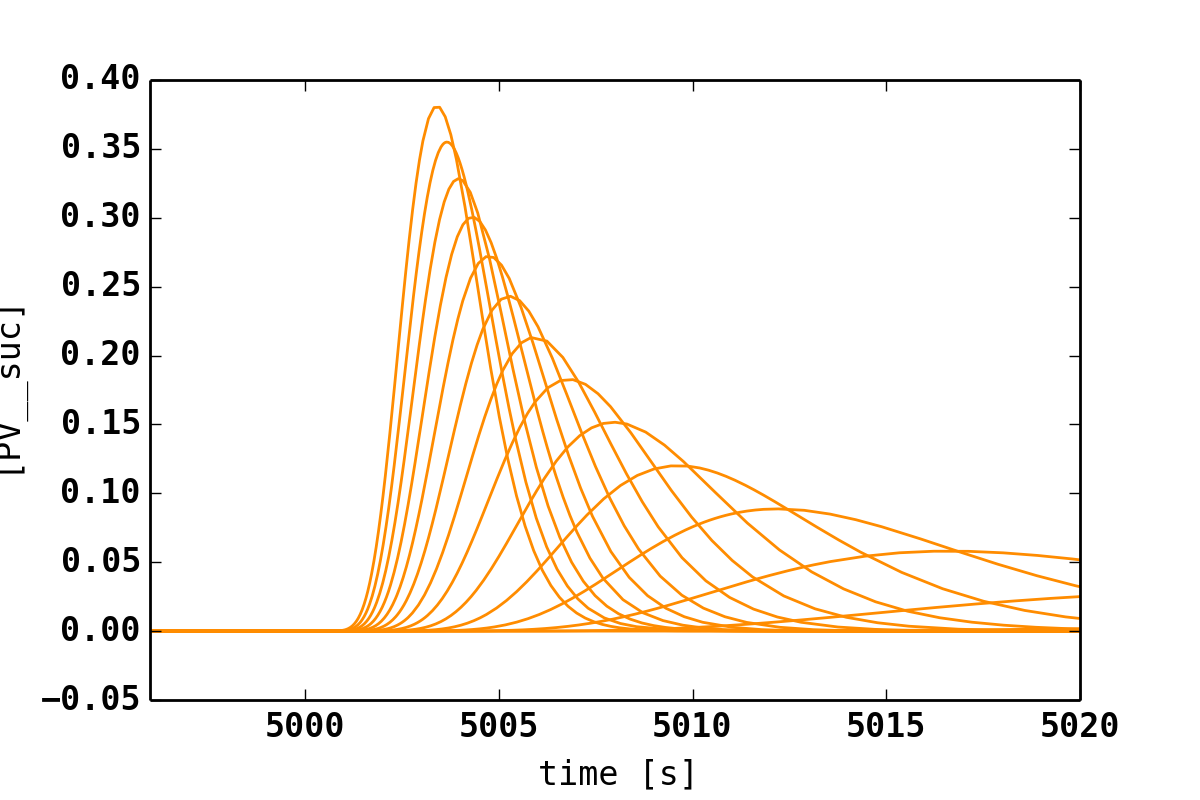
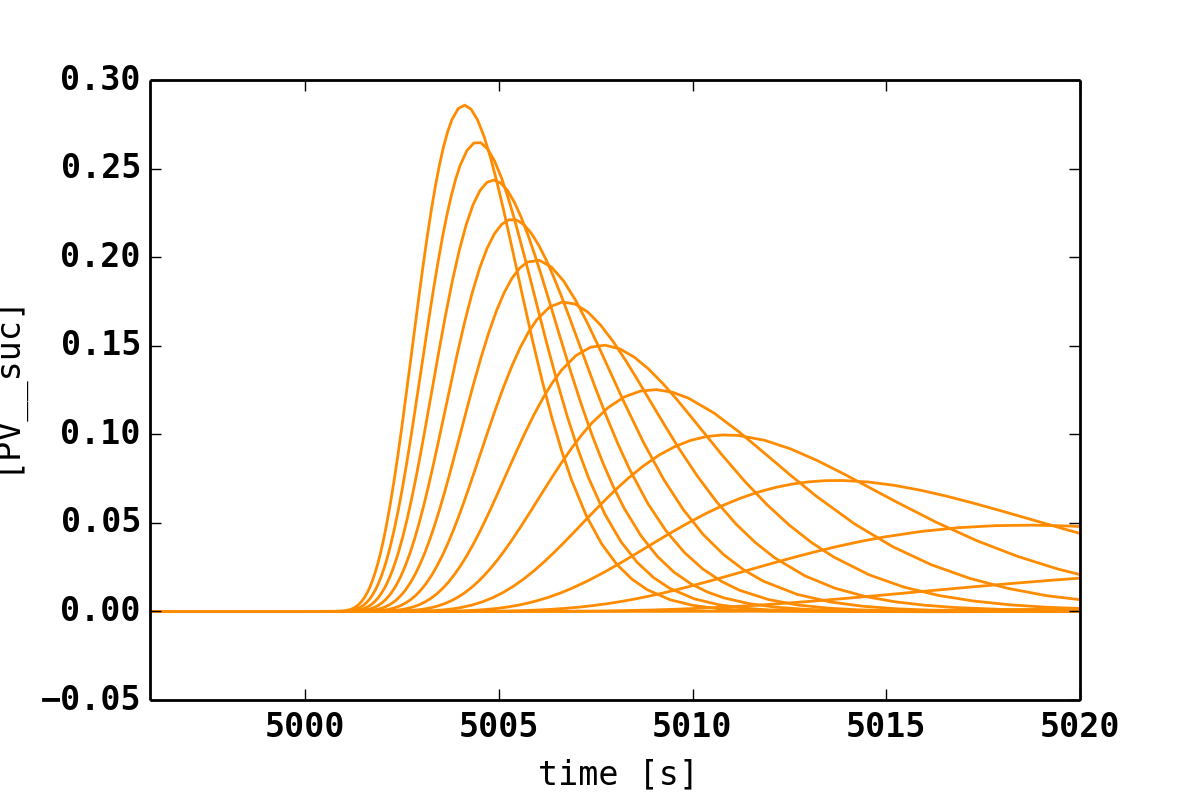
Better parameter set found

diff --git a/python/simulator/simulator/roadrunner_tools/galactose_dilution.py b/python/simulator/simulator/roadrunner_tools/galactose_dilution.py
@@ -24,13 +24,13 @@ import dilution_plots as dp
 #########################################################################    
 # Load model
 #########################################################################    
-VERSION = 92
+VERSION = 93
 NC = 20
 SBML_DIR = '/home/mkoenig/multiscale-galactose-results/tmp_sbml'
 T_PEAK = 5000
 
-# sbml_file = SBML_DIR + '/' + 'Galactose_v{}_Nc20_dilution.xml'.format(VERSION)
-sbml_file = SBML_DIR + '/' + 'Galactose_v{}_Nc{}_dilution_gauss.xml'.format(VERSION, NC)
+sbml_file = SBML_DIR + '/' + 'Galactose_v{}_Nc20_dilution.xml'.format(VERSION)
+# sbml_file = SBML_DIR + '/' + 'Galactose_v{}_Nc{}_dilution_gauss.xml'.format(VERSION, NC)
 r = rt.load_model(sbml_file)
 
 #########################################################################    
@@ -58,7 +58,8 @@ r.selections = sel
 # set the boundary concentrations
 # PP__gal = (0.28, 5, 12.5, 17.5) # [mM]
 p_list = [
-   { "[PP__gal]" : 0.28, "flow_sin" : 1.5*0.5*270E-6, 't_duration':0.5, 'y_dis': 1.2E-6},
+   { "[PP__gal]" : 0.28, "flow_sin" : 1.5*0.5*270E-6, 't_duration':0.5, 'y_dis': 1.2E-6, 
+    "peak_area": 1.0},
 ]
 
 inits = {}
@@ -87,6 +88,8 @@ for sid in ['[PV__{}]'.format(item) for item in compounds]:
 import roadrunner_plots as rp
 # mean curve
 dp.dilution_plot_pppv(s_list, r.selections)
+# dp.dilution_plot_pppv(s_list, r.selections, ylim=[0,0.005])
+
 
 # mean curve with data
 exp_file = '/home/mkoenig/multiscale-galactose/results/dilution/Goresky_processed.csv'
@@ -104,6 +107,7 @@ dp.dilution_plot_by_name(s_list, r.selections, name='udpgalM')
 dp.dilution_plot_by_name(s_list, r.selections, name='udpglcM')
 
 dp.dilution_plot_by_name(s_list, r.selections, name='galM', xlim=[T_PEAK-10, T_PEAK+20])
+dp.dilution_plot_by_name(s_list, r.selections, name='galM', xlim=[T_PEAK-10, T_PEAK+20], comp_type="D")
 dp.dilution_plot_by_name(s_list, r.selections, name='galM', xlim=[0, 20])
 dp.dilution_plot_by_name(s_list, r.selections, name='gal1p')
 dp.dilution_plot_by_name(s_list, r.selections, name='galtol')

diff --git a/python/simulator/simulator/roadrunner_tools/galactose_dilution_flux.py b/python/simulator/simulator/roadrunner_tools/galactose_dilution_flux.py
@@ -51,19 +51,19 @@ p_flux = gf.flux_probability(flux)
 # Set parameters and integrate
 #########################################################################  
 gal_p_list = []
-for gal in [0.28]:
-# for gal in [0.28, 12.5, 17.5]:
+# for gal in [0.28]:
+for gal in [0.28, 12.5, 17.5]:
     p_list = []
     for f in flux:
         d = { 
               # 't_duration':0.5,
               "[PP__gal]" : gal, 
               "flow_sin" : f*1E-6 * 0.5,    
-              "y_dis" : 2.5E-6,
-              "y_cell" : 1.4*6.19E-6,
-              "scale_f" : 1.0,           
-              "H2OT_f": 17.0,
-              "GLUT2_f" : 6, 
+              "y_dis" : 2.7E-6,
+              "y_cell" : 1.2*6.19E-6,
+              "scale_f" : 0.85,           
+              "H2OT_f": 10.0,
+              "GLUT2_f" : 3.7, 
               # "y_peak" : 0.5,
               # "GALK_PA" :  0.02,
               }
@@ -121,8 +121,8 @@ rp.average_plots(timepoints, av_mats, xlim=tlim, show=show_plots)
 # rp.plot_data_with_sim(exp_data, timepoints, av_mats, scale=4.0*15.16943, time_shift=1.5)
 # rp.plot_gal_data_with_sim(exp_data, timepoints, av_mats, scale=4.0*15.16943, time_shift=1.5)        
 
-rp.plot_data_with_sim(exp_data, timepoints, av_mats, scale=3.8*15.16943, time_shift=1.0)
-rp.plot_gal_data_with_sim(exp_data, timepoints, av_mats, scale=3.8*15.16943, time_shift=1.0)   
+rp.plot_data_with_sim(exp_data, timepoints, av_mats, scale=3.9*15.16943, time_shift=1.0)
+rp.plot_gal_data_with_sim(exp_data, timepoints, av_mats, scale=3.9*15.16943, time_shift=1.0)   
  
 
 

diff --git a/python/modelcreator/modelcreator/models/galactose/GalactoseSinusoid.py b/python/modelcreator/modelcreator/models/galactose/GalactoseSinusoid.py
@@ -101,12 +101,13 @@ pars.extend([
               ('peak_status',    0.0,    '-',    False),
               ('t_peak',         5000.0, 's',     True),
               ('t_duration',     0.5,    's',     True),
+              ('peak_area',      1.0,    'mM_s',     True),
             ])
 
 rules.extend([
              # id, assignment, unit
             ('t_peak_end', 't_peak + t_duration', 's'),
-            ('y_peak', '1 mM_s/t_duration', 'mM'),
+            ('y_peak', 'peak_area/t_duration', 'mM'),
             ("mu_peak", "t_peak + t_duration/2 dimensionless",  "s"),
             ('sigma_peak',  "1 mM_s/(y_peak * sqrt(2 dimensionless*pi))", "s"),
             ('peak_gauss',  "peak_status * 1 mM_s/(sigma_peak *sqrt(2 dimensionless*pi)) * exp(-(time-mu_peak)^2/(2 dimensionless * sigma_peak^2))", "mM"),

diff --git a/python/modelcreator/modelcreator/models/GalactoseFactory.py b/python/modelcreator/modelcreator/models/GalactoseFactory.py
@@ -20,9 +20,9 @@ from modelcreator.events.event_factory import createGalactoseStepEventData
 if __name__ == "__main__":
     
     # definition of cell model and tissue model
-    Nc = 1
+    Nc = 20
     Nf = 1
-    version = 92
+    version = 93
     cell_model = CellModel.createModel('galactose.GalactoseCell')
     tdict = TissueModel.createTissueDict(['SinusoidalUnit', 
                                           'galactose.GalactoseSinusoid']) 
